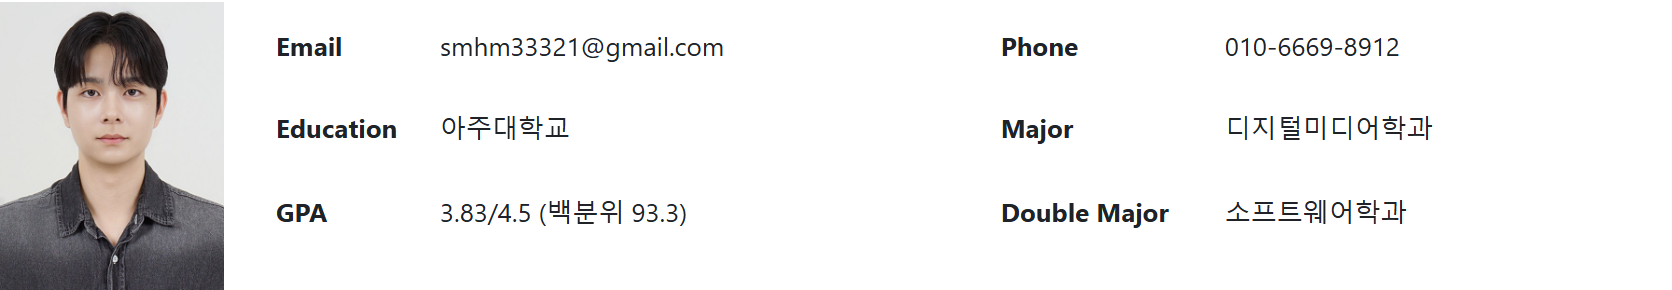
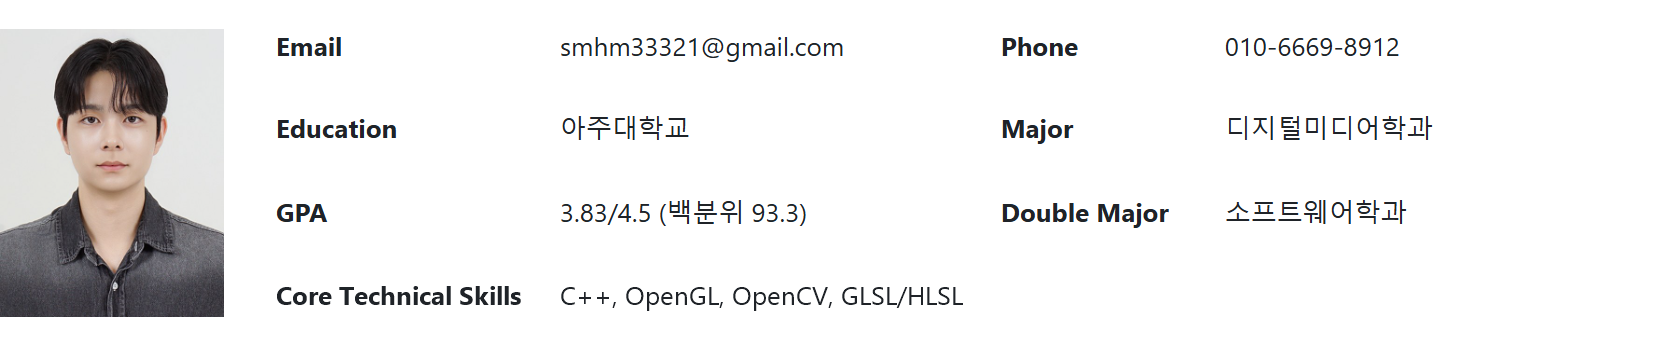
Clarify graphics specialization on the profile

diff --git a/README.md b/README.md
@@ -1,8 +1,8 @@
-# 서문현모 | Software Engineer
+# 서문현모 | Graphics Software Engineer<br><img src="assets/profile-subtitle.svg" width="340" height="22" alt="Specializing in Rendering &amp; Image Processing">
 
 ## Personal Information
 
-<img src="assets/profile-information.png" width="100%" alt="서문현모 프로필 사진. Email: smhm33321@gmail.com / Phone: 010-6669-8912 / Education: 아주대학교 / GPA: 3.83/4.5 (백분위 93.3) / Major: 디지털미디어학과 / Double Major: 소프트웨어학과">
+<img src="assets/profile-information.png" width="100%" alt="서문현모 프로필 사진. Email: smhm33321@gmail.com / Phone: 010-6669-8912 / Education: 아주대학교 / GPA: 3.83/4.5 (백분위 93.3) / Major: 디지털미디어학과 / Double Major: 소프트웨어학과 / Core Technical Skills: C++, OpenGL, OpenCV, GLSL/HLSL">
 
 <img src="assets/focus-areas.svg" width="100%" alt="Visual Computing · Game Interactive">
 
@@ -10,9 +10,9 @@
 <a href="#work-experience"><img src="assets/navigation/work-experience.svg" width="14.259%" alt="Work experience"></a>
 <a href="#projects-visual-computing"><img src="assets/navigation/projects-visual-computing.svg" width="22.037%" alt="Projects (Visual Computing)"></a>
 <a href="#projects-game-interactive"><img src="assets/navigation/projects-game-interactive.svg" width="21.604%" alt="Projects (Game Interactive)"></a>
-<a href="#course-work"><img src="assets/navigation/course-work.svg" width="11.234%" alt="Course work"></a>
-<a href="#technical-stacks"><img src="assets/navigation/technical-stacks.svg" width="14.115%" alt="Technical Stacks"></a>
 <a href="#other-activities"><img src="assets/navigation/other-activities.svg" width="13.251%" alt="Other Activities"></a>
+<a href="#technical-stacks"><img src="assets/navigation/technical-stacks.svg" width="14.115%" alt="Technical Stacks"></a>
+<a href="#course-work"><img src="assets/navigation/course-work.svg" width="11.234%" alt="Course work"></a>
 </p>
 
 ## Work experience
@@ -134,6 +134,25 @@
 <br clear="all">
 </div>
 
+## Other Activities
+
+- **암행어스** · 2인 교과 프로젝트 팀장 · Roblox Studio 기반 멀티플레이어 추리 게임 기획 및 개발
+- **Pest Runner** · 2인 교과 프로젝트 팀장 · Unity 6 기반 AR 러닝 게임의 벌레 생성·추적 및 메달 지급·저장 구현
+- **CNN Image Classification** · 경량 CNN 앙상블 학습·추론으로 분류 정확도 **48.34% → 57.80%**
+- **아주고침** · Unreal Engine 5 기반 이미지 마커 인식, 다중 이미지 AR 렌더링 및 Android 패키징
+- **Python 데이터 분석 교육 튜터** · 2024.05 · 고등학생 대상 Pandas·Matplotlib 강의 및 자료 제작·공유
+- **U-CHANGE FAIR 전공 멘토** · 2025.04 · 디지털미디어학과 교육과정 소개 및 저학년 전공·진로 상담
+
+## Technical Stacks
+
+| 구분 | 프로젝트에서 사용한 기술 |
+| --- | --- |
+| 언어 | C++ · C# · Python · C · GLSL · HLSL |
+| 렌더링·영상처리 | OpenGL · OpenCV · Dear ImGui |
+| 게임·실감 콘텐츠 | Unity 6 · URP · Cinemachine · NavMeshAgent · Unreal Engine 5 Blueprint |
+| 기계학습·데이터 | PyTorch · torchvision · scikit-learn · LightGBM · NumPy · pandas · Matplotlib · Google Colab |
+| 개발·협업 | Git · GitHub · Slack · Notion · Claude Code |
+
 ## Course work
 
 수업에서 직접 구현하거나 실험한 내용을 중심으로 정리했습니다.
@@ -146,22 +165,3 @@
 | 기계학습 | 기계학습 | 분류·회귀 모델 비교, PyTorch 학습·평가 루프, MobileNet 기반 모델·ConvMixer 구성, 데이터 증강·앙상블 추론 |
 | 게임·인터랙션 | 게임엔진프로그래밍 · 메타버스프로그래밍 | Unity 게임 제작, 적 감지·행동 제어, AR·상호작용 콘텐츠 제작 |
 | 컴퓨터과학 기초 | 자료구조 · 알고리즘 · 운영체제 · 컴퓨터구조 · 컴퓨터네트워크 · 선형대수 | 자료구조·알고리즘, 시스템·네트워크, 그래픽스와 학습 모델의 수학적 기반 학습 |
-
-## Technical Stacks
-
-| 구분 | 프로젝트에서 사용한 기술 |
-| --- | --- |
-| 언어 | C++ · C# · Python · C · GLSL · HLSL |
-| 렌더링·영상처리 | OpenGL · OpenCV · Dear ImGui |
-| 게임·실감 콘텐츠 | Unity 6 · URP · Cinemachine · NavMeshAgent · Unreal Engine 5 Blueprint |
-| 기계학습·데이터 | PyTorch · torchvision · scikit-learn · LightGBM · NumPy · pandas · Matplotlib · Google Colab |
-| 개발·협업 | Git · GitHub · Slack · Notion · Claude Code |
-
-## Other Activities
-
-- **암행어스** · 2인 교과 프로젝트 팀장 · Roblox Studio 기반 멀티플레이어 추리 게임 기획 및 개발
-- **Pest Runner** · 2인 교과 프로젝트 팀장 · Unity 6 기반 AR 러닝 게임의 벌레 생성·추적 및 메달 지급·저장 구현
-- **CNN Image Classification** · 경량 CNN 앙상블 학습·추론으로 분류 정확도 **48.34% → 57.80%**
-- **아주고침** · Unreal Engine 5 기반 이미지 마커 인식, 다중 이미지 AR 렌더링 및 Android 패키징
-- **Python 데이터 분석 교육 튜터** · 2024.05 · 고등학생 대상 Pandas·Matplotlib 강의 및 자료 제작·공유
-- **U-CHANGE FAIR 전공 멘토** · 2025.04 · 디지털미디어학과 교육과정 소개 및 저학년 전공·진로 상담
